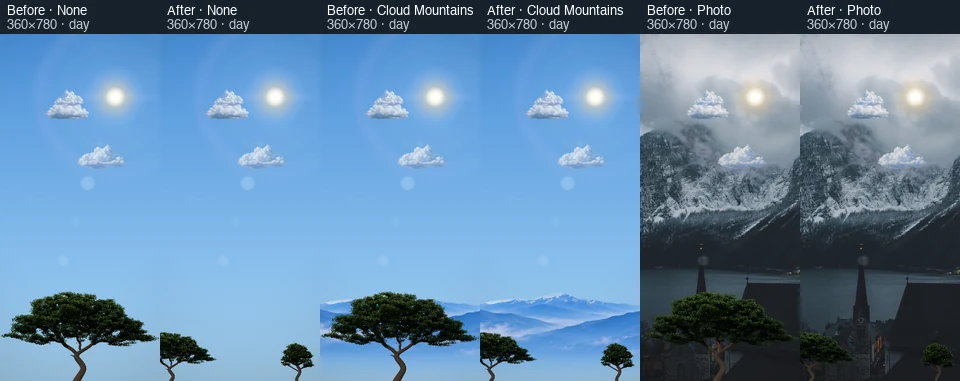
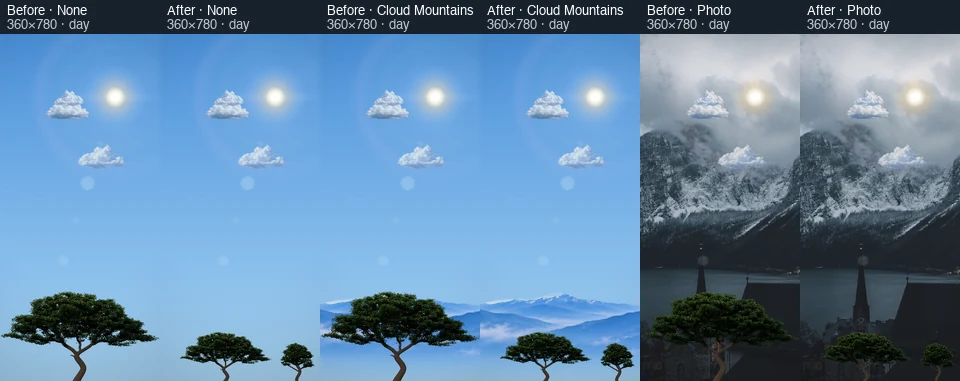
fix: keep the larger broadleaf crown fully visible
Inset the cached primary placement without reducing its scale, cover tablet and scrolling clipping, refresh rendered evidence, and apply both formatting suggestions.

Changed region(s): [[0.1562, 0.8661, 0.2812, 1.0], [0.5, 0.8661, 0.625, 1.0], [0.8125, 0.8661, 0.9375, 0.9528]]

diff --git a/app/src/androidTest/java/xyz/attacktive/weatherd/domain/render/ForegroundTreeRenderingTest.kt b/app/src/androidTest/java/xyz/attacktive/weatherd/domain/render/ForegroundTreeRenderingTest.kt
@@ -64,10 +64,10 @@ class ForegroundTreeRenderingTest {
 	}
 
 	@Test
-	fun broadleafFramesBothEdgesWithoutBlockingTheCenterAcrossViewportsAndScrolling() {
+	fun broadleafKeepsTheLargerCrownVisibleAndTheUpperCenterOpenAcrossViewportsAndScrolling() {
 		val layer = ForegroundTreeLayer(resources)
 		layer.prewarm(TreeStyle.BROADLEAF)
-		val viewports = listOf(360 to 780, 780 to 360, 1200 to 540, 1920 to 540)
+		val viewports = listOf(360 to 780, 780 to 360, 800 to 1280, 1280 to 800, 1200 to 540, 1920 to 540)
 		for ((width, height) in viewports) {
 			for (scrolling in listOf(false, true)) {
 				val sceneWidth = wallpaperSceneWidth(width, scrolling)
@@ -83,13 +83,17 @@ class ForegroundTreeRenderingTest {
 					val viewportLeft = wallpaperViewportLeft(width, sceneWidth, offset, scrolling)
 					canvas.translate(-viewportLeft, 0f)
 					layer.draw(canvas, sceneWidth.toFloat(), height.toFloat(), clearParams(TreeStyle.BROADLEAF))
-					val left = alphaCoverage(bitmap, 0, width / 4)
-					val center = alphaCoverage(bitmap, width * 2 / 5, width * 3 / 5)
+
+					val left = alphaCoverage(bitmap, 0, width / 3)
+					val upperCenter = alphaCoverage(bitmap, width * 2 / 5, width * 3 / 5, endY = height / 2)
 					val right = alphaCoverage(bitmap, width * 3 / 4, width)
 					val context = "${width}x$height scrolling=$scrolling offset=$offset"
-					assertTrue("Left Broadleaf tree must frame the edge: $context ($left)", left > 0.015)
+
+					assertTrue("The larger Broadleaf tree must retain its left-side presence: $context ($left)", left > 0.015)
 					assertTrue("Right Broadleaf tree must frame the edge: $context ($right)", right > 0.015)
-					assertTrue("Broadleaf must leave the middle open: $context ($center)", center < 0.005)
+					assertEquals("The larger Broadleaf crown must not clip the left boundary: $context", 0.0, alphaCoverage(bitmap, 0, 1), 0.0)
+					assertEquals("Broadleaf must leave the upper middle sky open: $context", 0.0, upperCenter, 0.0)
+
 					bitmap.recycle()
 				}
 			}
@@ -224,15 +228,15 @@ class ForegroundTreeRenderingTest {
 		return bitmap
 	}
 
-	private fun alphaCoverage(bitmap: Bitmap, startX: Int, endX: Int): Double {
+	private fun alphaCoverage(bitmap: Bitmap, startX: Int, endX: Int, endY: Int = bitmap.height): Double {
 		var alpha = 0L
-		for (y in 0 until bitmap.height) {
+		for (y in 0 until endY) {
 			for (x in startX until endX) {
 				alpha += Color.alpha(bitmap.getPixel(x, y))
 			}
 		}
 
-		return alpha.toDouble() / ((endX - startX) * bitmap.height * 255L)
+		return alpha.toDouble() / ((endX - startX) * endY * 255L)
 	}
 
 	private fun brightness(pixel: Int) = (Color.red(pixel) + Color.green(pixel) + Color.blue(pixel)) * Color.alpha(pixel).toLong()

diff --git a/app/src/main/java/xyz/attacktive/weatherd/domain/render/ForegroundTreeLayer.kt b/app/src/main/java/xyz/attacktive/weatherd/domain/render/ForegroundTreeLayer.kt
@@ -64,8 +64,10 @@ internal class ForegroundTreeLayer(private val resources: Resources) {
 				val treeWidth = unclampedWidth.coerceAtMost(width * placement.maxWidth)
 				val treeHeight = treeWidth * source.height / source.width
 				val center = width * placement.center
+				val left = center - treeWidth / 2f
+				val horizontalOffset = (width * placement.minLeft - left).coerceAtLeast(0f)
 				val bottom = height * placement.bottom
-				destinations[index].set(center - treeWidth / 2f, bottom - treeHeight, center + treeWidth / 2f, bottom)
+				destinations[index].set(left + horizontalOffset, bottom - treeHeight, center + treeWidth / 2f + horizontalOffset, bottom)
 			}
 
 			cachedWidth = width
@@ -122,7 +124,8 @@ private data class TreePlacement(
 	val height: Float,
 	val bottom: Float,
 	val mirror: Boolean = false,
-	val maxWidth: Float = Float.POSITIVE_INFINITY
+	val maxWidth: Float = Float.POSITIVE_INFINITY,
+	val minLeft: Float = Float.NEGATIVE_INFINITY
 )
 
 // Smaller trees draw first; the dominant tree and asymmetric right tree anchor the near foreground.
@@ -134,8 +137,9 @@ private val EVERGREEN_PLACEMENTS = arrayOf(
 	TreePlacement(sprite = 1, center = 0.97f, height = 0.53f, bottom = 1.09f, mirror = true)
 )
 
+// Keep the full primary crown inset through launcher scrolling without reducing its scale.
 private val BROADLEAF_PLACEMENTS = arrayOf(
-	TreePlacement(sprite = 0, center = 0.07f, height = 0.43f, bottom = 1.02f, maxWidth = 0.58f),
+	TreePlacement(sprite = 0, center = 0.25f, height = 0.43f, bottom = 1.02f, maxWidth = 0.58f, minLeft = 0.12f),
 	TreePlacement(sprite = 1, center = 0.86f, height = 0.30f, bottom = 1.02f, maxWidth = 0.22f)
 )
 

diff --git a/scripts/generate-broadleaf-textures.py b/scripts/generate-broadleaf-textures.py
@@ -502,8 +502,10 @@ def build_companion_scaffold(nodes: list[TreeNode], rng: np.random.Generator) ->
 		(-0.34, 0.02, 3.64),
 		(-0.38, 0.00, 4.14),
 	]
+
 	trunk_style = ChainStyle(crookedness=0.010, max_seg_len=0.13, is_trunk=True)
 	trunk_indices = [0] + append_polychain(nodes, 0, trunk_waypoints, rng, trunk_style)
+
 	boughs = [
 		(1.62, [(-0.30, 0.06, 1.92), (-0.80, 0.02, 2.22), (-1.28, -0.02, 2.48)], 'skirt_tip'),
 		(1.96, [(0.56, -0.04, 2.08), (1.02, -0.02, 2.22), (1.36, 0.02, 2.36)], 'skirt_tip'),

diff --git a/README.md b/README.md
@@ -21,7 +21,8 @@ Only an unavailable or invalid location uses a coarse device-local clock approxi
 Refreshes happen separately, and a slow or failed request does not prevent switching modes.
 
 Enable **Settings → Appearance → Scenery & photos → Trees** to add a fixed foreground tree composition to any backdrop, including None and Photo.
-When enabled, **Tree shape** offers **Evergreen**, the existing multi-tree conifer composition, or **Broadleaf**, a spreading tree at the left edge and a smaller, independently grown companion at the right, leaving the middle open across backdrops.
+When enabled, **Tree shape** offers **Evergreen**, the existing multi-tree conifer composition, or **Broadleaf**, a spreading tree inset from the left edge and a smaller, independently grown companion at the right, leaving the upper middle sky open across backdrops.
+The larger Broadleaf crown stays fully visible through portrait, landscape, and launcher scrolling without reducing its scale; both trunks remain grounded at the bottom.
 This is a morphology choice, not a backdrop or seasonal landscape.
 Trees remain off on fresh installs, and existing settings retain their on/off choice; settings and presets without a shape keep Evergreen.
 Turning trees off hides the shape picker without clearing its selection; shape resets independently and is saved with appearance presets.
